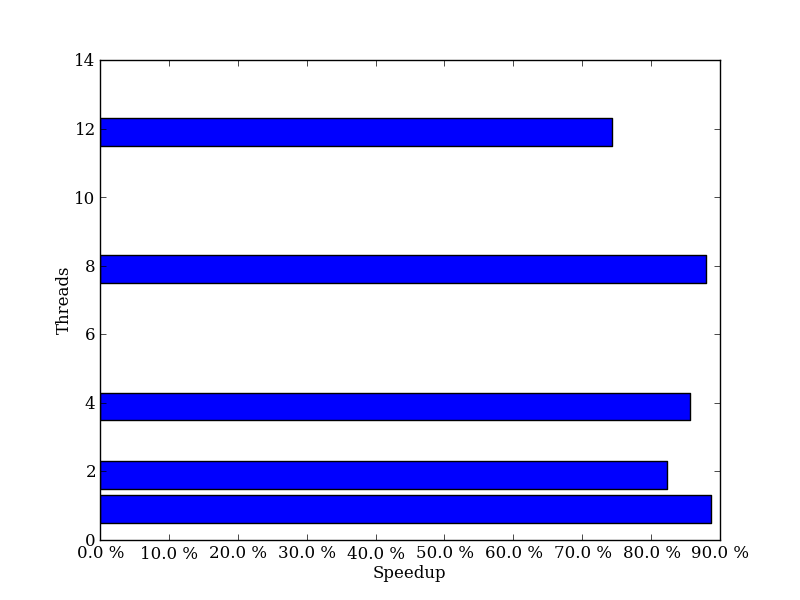
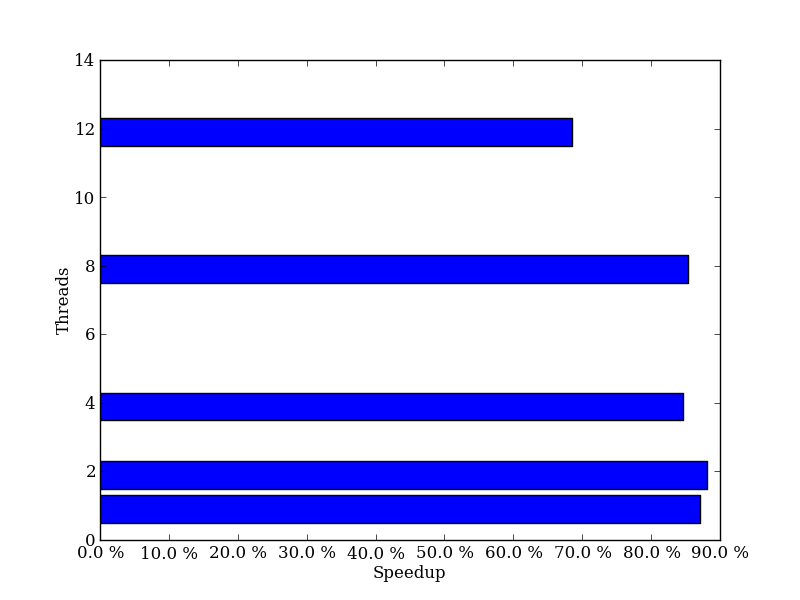
fixed plot errors
using 8192 for intel
most plots now contain 0 and one tick on far right

diff --git a/bin/plot.py b/bin/plot.py
@@ -101,24 +101,40 @@ def plot_scaling(data, the_title, munger, labeler):
 
         # special case
         if 'Intel Weak' in the_title:
-            if str(512*24) not in labeler(d):
+            if str(2048*24) not in labeler(d):
                 continue
 
         plot(zippd[0], zippd[1], 'o-', label=labeler(d))
     legend()
     xlabel('Threads')
     ylabel('Time (seconds)')
+    
+
+
+
+    ax = plt.gca()
+    current = map(int, ax.get_xticks())
+
+    # just to wash out dups
+    padding = sorted(set(current))
+
+    # put one tick at the end
+    padding += [max(padding) + padding[1] - padding[0]]
+
+    # ensure we start from zero
+    if padding[0] != 0:
+        padding = [0] + padding
+
+    # finalize xticks
+    ax.set_xticks(padding)
 
     if 'Intel Weak' in the_title:
         # force y axis to be int
-        ax = plt.gca()
-
         yticks = ax.get_yticks()
 
         # ensure these are ints
         bounds = map(int, (min(yticks), max(yticks)))
-        ax.set_yticks(range(bounds[0]-4, bounds[1]+4))
-
+        ax.set_yticks(range(bounds[0]-2, bounds[1]+3))
 
     t = "_".join(the_title.lower().split()) + ".png"
     savefig(out_dir + t, dpi=100)
@@ -193,7 +209,7 @@ if __name__ == '__main__':
     plot_strong_scaling(data, dataset='GCC')
     plot_weak_scaling(data, dataset='GCC')
 
-    data = intel_data = read_data('goodtokno/tacc_intel_O3_2048')
+    data = intel_data = read_data('goodtokno/tacc_intel_O3_8192')
     wdata = weak_scaling_data(data)
     sdata = strong_scaling_data(data)
     intel_total_time = sum(map(lambda i: i[T], data))
@@ -201,7 +217,7 @@ if __name__ == '__main__':
     plot_strong_scaling(data, dataset='Intel')
     plot_weak_scaling(data, dataset='Intel')
 
-    plot_parallelization_levels(intel_data, 2048, 8, dataset='Intel')
+    plot_parallelization_levels(intel_data, 8192, 8, dataset='Intel')
     plot_parallelization_levels(gcc_data, 2048, 8, dataset='GCC')
 
     plot_compiler_difference(gcc_data, intel_data)
